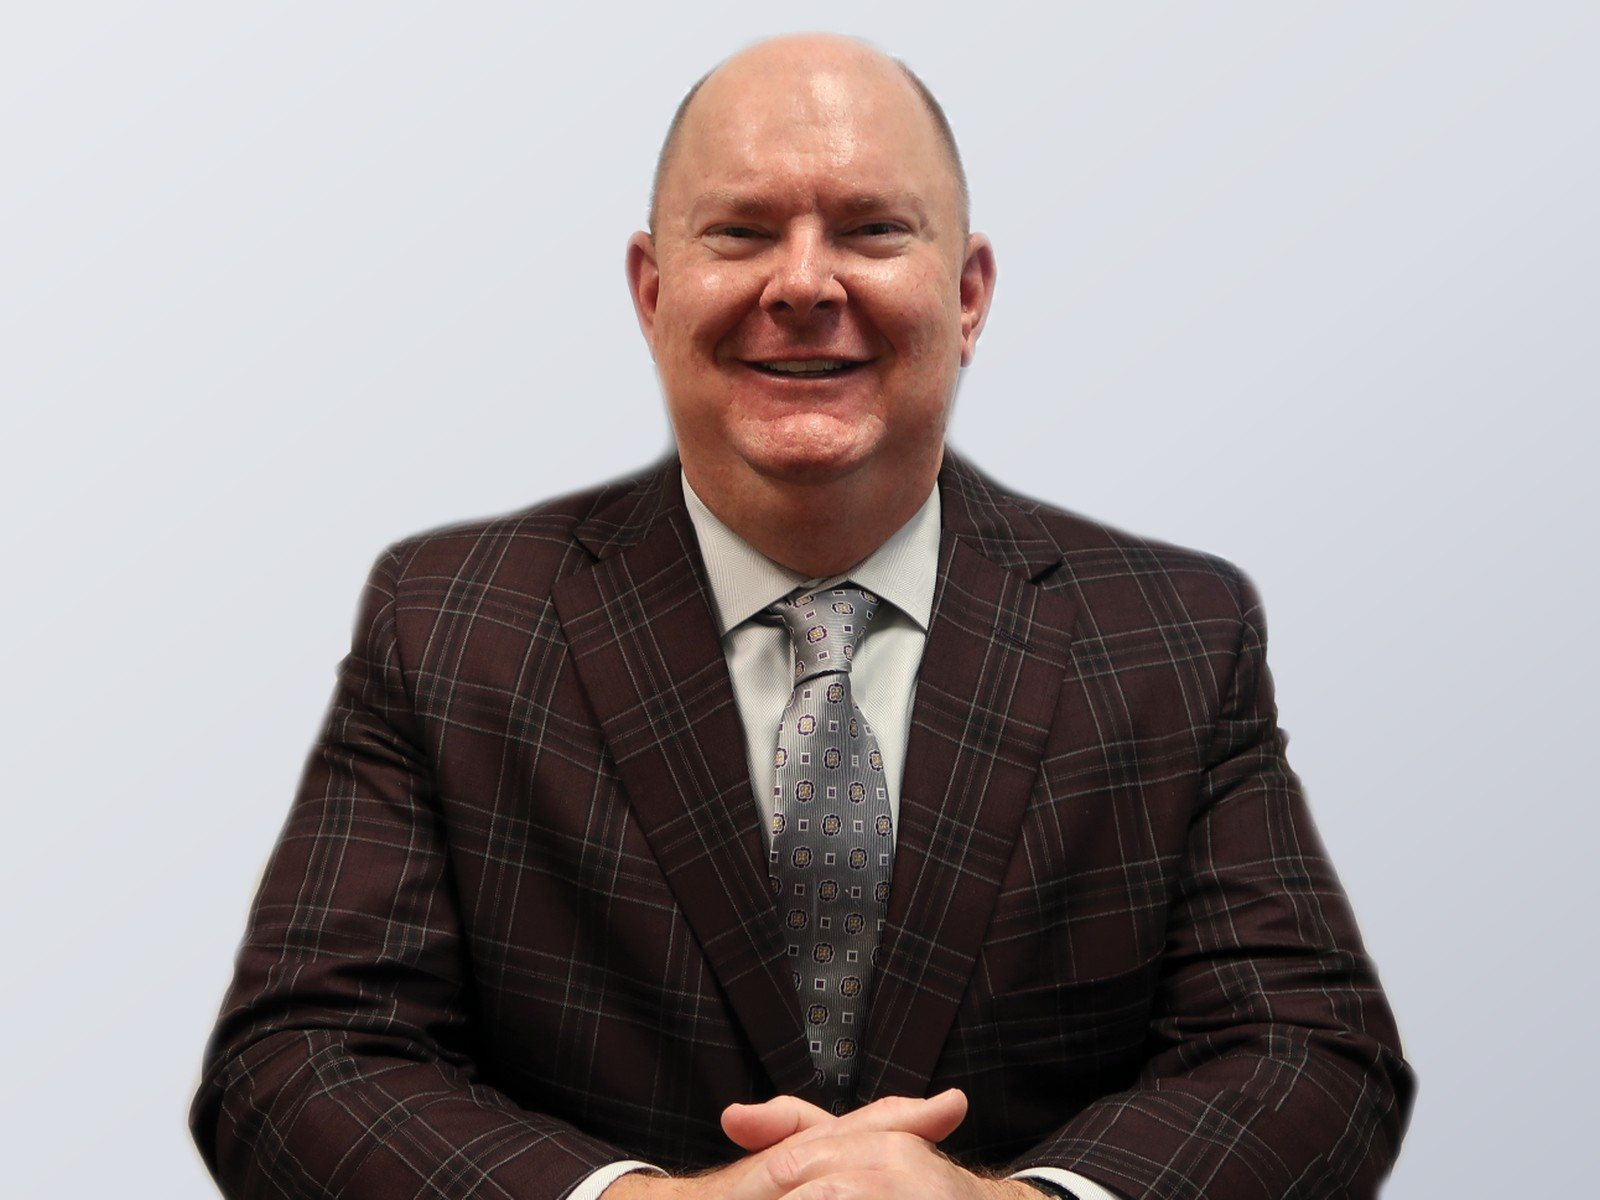
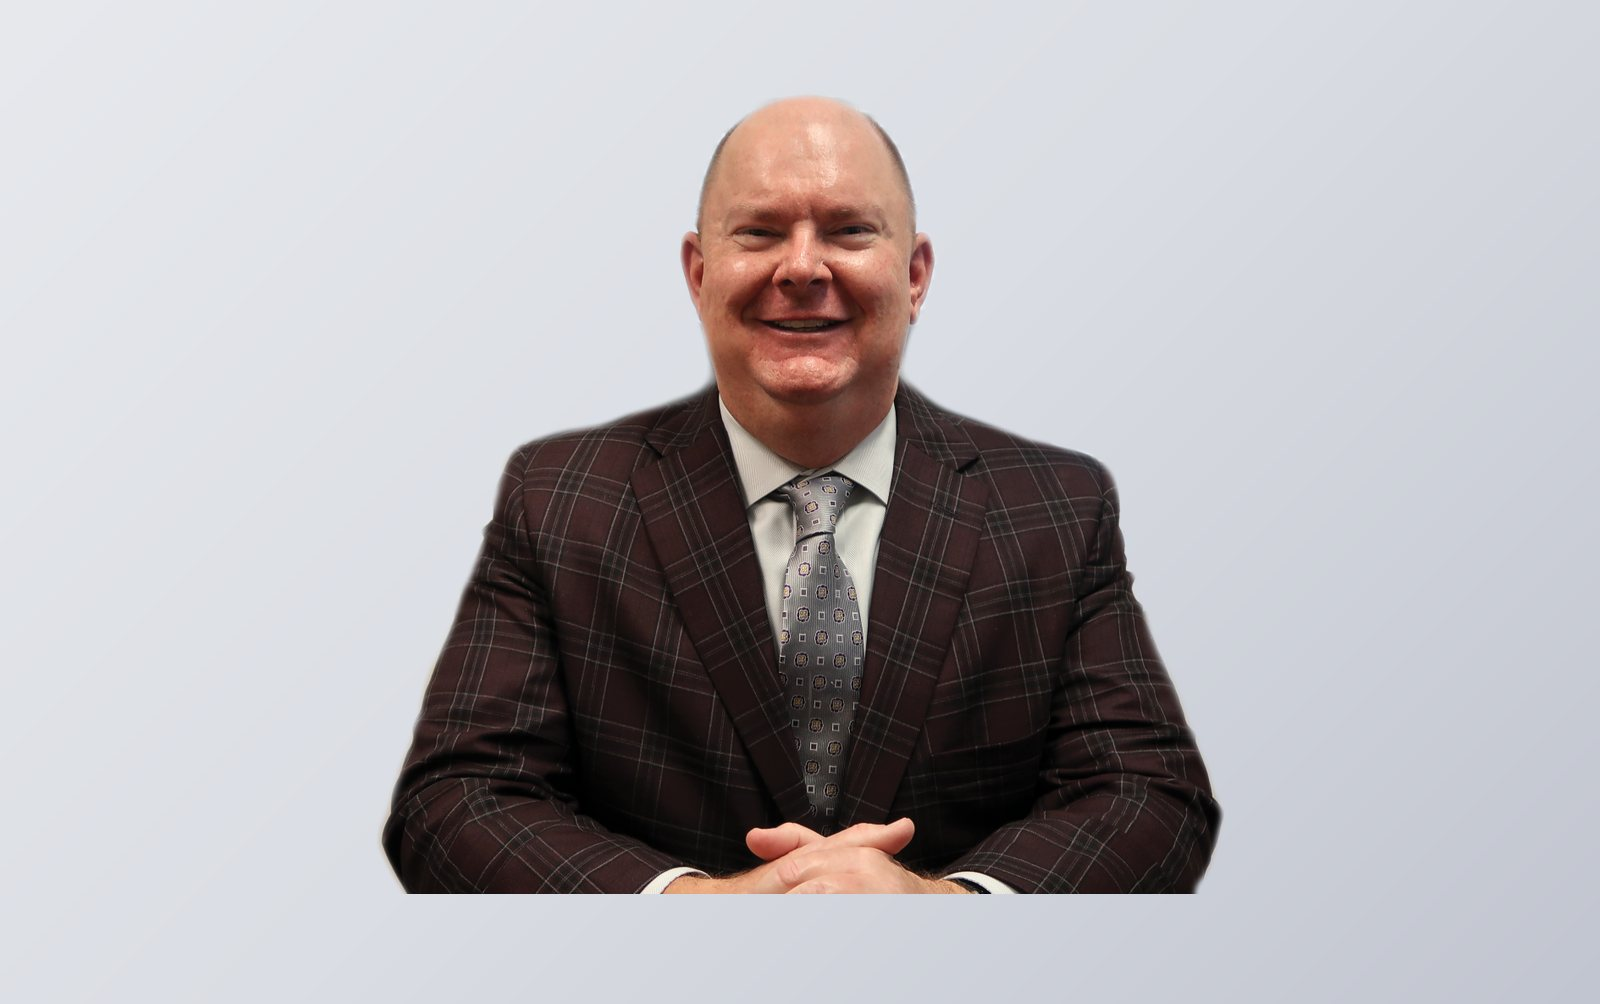
About page: rename intro heading, fix Trey's headshot crop
- "Started local, stayed local" -> "Supporting Central Virginia and Beyond!"
- Rebuild Trey's headshot composite with more headroom/footroom and an
  aspect ratio matching the split-media panel, so his head and hands
  no longer get clipped by the panel's object-fit: cover crop

diff --git a/about.html b/about.html
@@ -110,7 +110,7 @@
   <div class="container">
     <div class="section-head">
       <div class="brand-rule"></div>
-      <h2>Started local, stayed local</h2>
+      <h2>Supporting Central Virginia and Beyond!</h2>
     </div>
     <p>CodeBlue Technology was founded on January 1, 2003 by Trey Hayden to service the computing and information technology needs of businesses throughout Central Virginia. Trey built a successful career in the specialty since 1990, and CodeBlue opened its doors in 2003 with a list of loyal clients built on a foundation that remains Core Values Driven today.</p>
   </div>

diff --git a/build.py b/build.py
@@ -1065,7 +1065,7 @@ about = head(
   <div class="container">
     <div class="section-head">
       <div class="brand-rule"></div>
-      <h2>Started local, stayed local</h2>
+      <h2>Supporting Central Virginia and Beyond!</h2>
     </div>
     <p>CodeBlue Technology was founded on January 1, 2003 by Trey Hayden to service the computing and information technology needs of businesses throughout Central Virginia. Trey built a successful career in the specialty since 1990, and CodeBlue opened its doors in 2003 with a list of loyal clients built on a foundation that remains Core Values Driven today.</p>
   </div>
